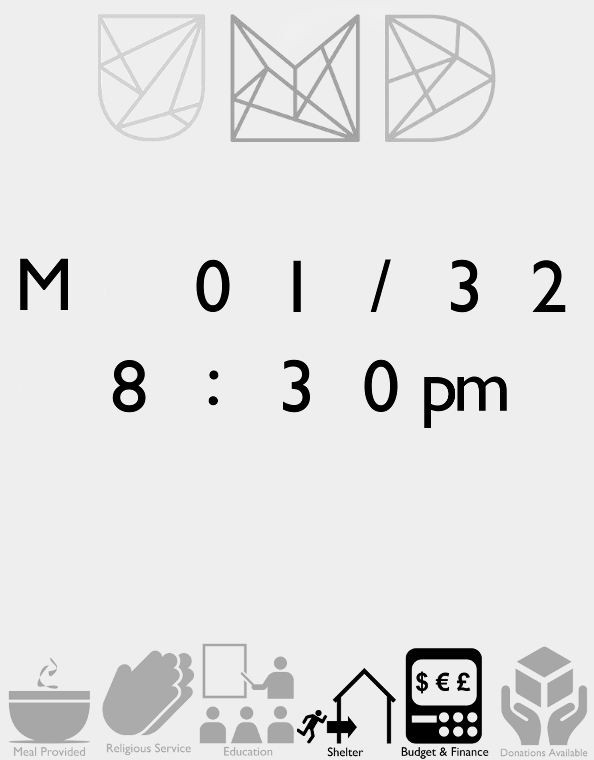
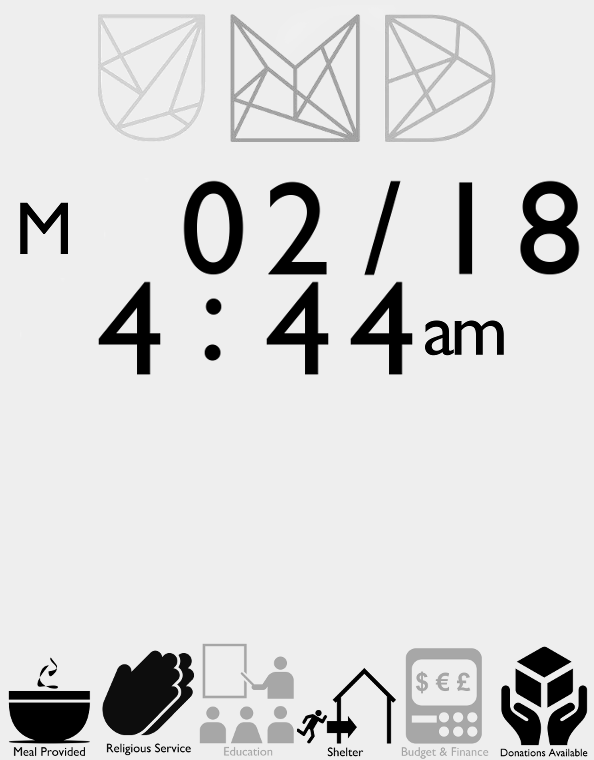
TRIPLE S-RANK FIXED

diff --git a/Triocast/resources/FlyerGenRunner.html b/Triocast/resources/FlyerGenRunner.html
@@ -12,12 +12,12 @@ Generating a flyer based on this information...<br>
 <param name="date" value="03/30"/>
 <param name="time" value="02:45pm"/>
 <param name="Meal?" value = "true"/>
-<param name="Religious?" value = "true"/>
-<param name="Education?" value = "false"/>
+<param name="Religious?" value = "false"/>
+<param name="Education?" value = "true"/>
 <param name="Shelter?" value = "true"/>
 <param name="Budget?" value = "false"/>
 <param name="Donations?" value = "true"/>
-<param name="size" value = "600x800"/>
+<param name="size" value = "600x700"/>
 
 <blockquote>
 <hr>

diff --git a/Triocast/src/flyer/TriocastApplet.java b/Triocast/src/flyer/TriocastApplet.java
@@ -1,9 +1,7 @@
 package flyer;
 import java.awt.Image;
-import java.io.File;
 import java.util.HashMap;
 
-import javax.imageio.ImageIO;
 import javax.swing.JApplet;
 import javax.swing.SwingUtilities;
 
@@ -124,22 +122,11 @@ public class TriocastApplet extends JApplet{
 					
 					info2.put("tags", tags);
 
-					FlyerGeneratorApplet fg = new FlyerGeneratorApplet(info2, imageSet);
+					FlyerGeneratorApplet fg = new FlyerGeneratorApplet(info, imageSet);
 					
 					TriocastApplet.this.add(fg);
 					fg.setVisible(true);
 					
-//					
-//					try {
-//						// write the image as a PNG
-//						ImageIO.write(
-//								FlyerGeneratorApplet.getScreenShot(fg.getContentPane()),
-//								"png",
-//								new File("flyer_applet.png"));
-//						System.out.println("Screenshot taken!");
-//					} catch(Exception e) {
-//						e.printStackTrace();
-//					}
 				}
 			});
 		} catch (Exception e) {

diff --git a/Triocast/src/flyer/FlyerGeneratorApplet.java b/Triocast/src/flyer/FlyerGeneratorApplet.java
@@ -27,9 +27,7 @@ import json.JSONObject;
  */
 
 public class FlyerGeneratorApplet extends JPanel{
-	private Container contentPane;
-	//	private static JPanel tagsPanel;
-	private JPanel eventPanel; //is this the same as tagsPanel?
+	private JPanel eventPanel;
 	/*
 	 * consider: what makes an event picture?
 	 * consider: make it like Bang! in which events are made up of the tags that are associated with them
@@ -183,11 +181,10 @@ public class FlyerGeneratorApplet extends JPanel{
 
 	public void flyerAssembly()
 	{
-//		contentPane = getContentPane();
 		this.setLayout(new BorderLayout());
 		this.add(eventPanel, BorderLayout.EAST);
 		this.add(timeDatePanel, BorderLayout.CENTER);
-
+		
 		JPanel topPanel = new JPanel(new BorderLayout());
 		topPanel.add(logoPanel, BorderLayout.NORTH);
 		topPanel.add(timeDatePanel, BorderLayout.CENTER);
